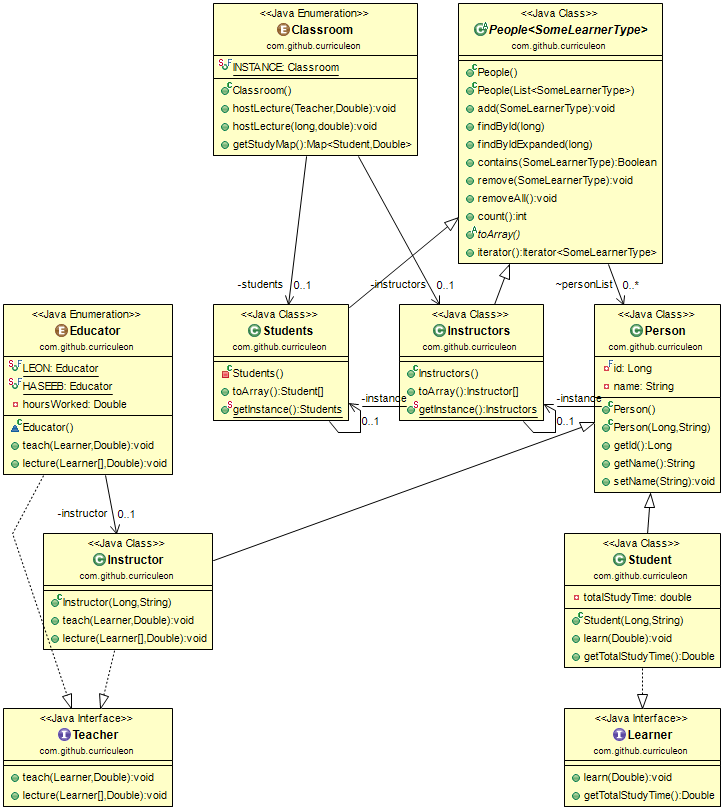
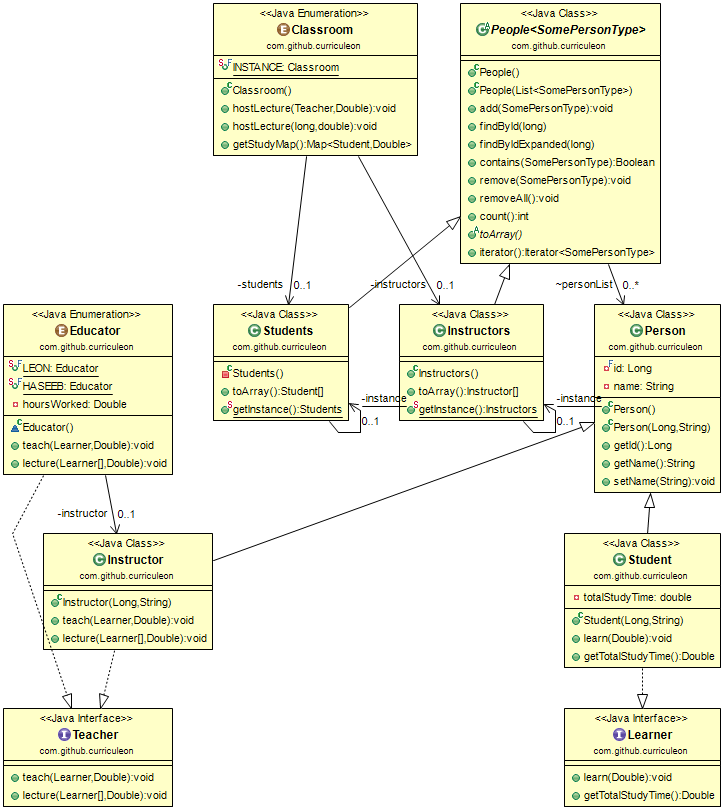
updated UML

Changed region(s): [[0.6077, 0.0, 0.942, 0.3395]]

diff --git a/maven.learnerlab/src/main/java/com/github/curriculeon/People.java b/maven.learnerlab/src/main/java/com/github/curriculeon/People.java
@@ -7,24 +7,24 @@ import java.util.List;
 /**
  * Created by leon on 7/22/2020.
  */
-abstract public class People<SomeLearnerType extends Person> implements Iterable<SomeLearnerType> {
-    List<SomeLearnerType> personList;
+abstract public class People<SomePersonType extends Person> implements Iterable<SomePersonType> {
+    List<SomePersonType> personList;
 
     public People() {
         this(new ArrayList<>());
     }
 
-    public People(List<SomeLearnerType> personList) {
+    public People(List<SomePersonType> personList) {
         this.personList = personList;
     }
 
-    public void add(SomeLearnerType person) {
+    public void add(SomePersonType person) {
         this.personList.add(person);
     }
 
-    public SomeLearnerType findById(long id) {
+    public SomePersonType findById(long id) {
         for (int i = 0; i < personList.size(); i++) {
-            SomeLearnerType person = personList.get(i);
+            SomePersonType person = personList.get(i);
             if (person.getId() == id) { //if the id is correct,
                 return person; // return person
             } else { // if its the wrong id,
@@ -34,9 +34,9 @@ abstract public class People<SomeLearnerType extends Person> implements Iterable
         return null; // we were not able to find the person with the id
     }
 
-    public SomeLearnerType findByIdExpanded(long id) {
+    public SomePersonType findByIdExpanded(long id) {
         for (int i = 0; i < personList.size(); i++) {
-            SomeLearnerType person = personList.get(i);
+            SomePersonType person = personList.get(i);
             if (person.getId() == id) { //if the id is correct,
                 return person; // return person
             } else { // if its the wrong id,
@@ -46,11 +46,11 @@ abstract public class People<SomeLearnerType extends Person> implements Iterable
         return null; // we were not able to find the person with the id
     }
 
-    public Boolean contains(SomeLearnerType specifiedPerson) {
+    public Boolean contains(SomePersonType specifiedPerson) {
         return personList.contains(specifiedPerson);
     }
 
-    public void remove(SomeLearnerType someSpecificPerson) {
+    public void remove(SomePersonType someSpecificPerson) {
         personList.remove(someSpecificPerson);
     }
 
@@ -62,10 +62,10 @@ abstract public class People<SomeLearnerType extends Person> implements Iterable
         return personList.size();
     }
 
-    abstract public SomeLearnerType[] toArray();
+    abstract public SomePersonType[] toArray();
 
     @Override
-    public Iterator<SomeLearnerType> iterator() {
+    public Iterator<SomePersonType> iterator() {
         return personList.iterator();
     }
 }
